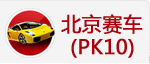
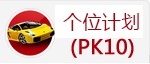
Signed-off-by: Mr.xiaojiu Win <274276153@qq.com>

Changed region(s): [[0.4, 0.1875, 0.96, 0.5312]]

diff --git a/App/Modules/Home/Tpl/Lottery/index.html b/App/Modules/Home/Tpl/Lottery/index.html
@@ -60,6 +60,7 @@
             <!--<td><a href=""><img src="/Public/source/hnguo/plan/h3zx.png" width="167" height="64" alt="后三直选"></a></td>-->
             <!--<td><a href=""><img src="/Public/source/hnguo/plan/h2z6.png" alt="后三组六" width="167" height="64" border="0"></a></td>-->
             <td><a href="/index.php?id=2"><img src="/Public/source/hnguo/plan/pk10.png" alt="北京赛车pk10" width="150" height="64" border="0"></a></td>
+            <td><a href="/index.php?id=8"><img src="/Public/source/hnguo/plan/pk10_qwdwd.png" alt="北京赛车pk10" width="150" height="64" border="0"></a></td>
             <td><a href="/index.php?id=3"><img src="/Public/source/hnguo/plan/ffcqq.png" alt="腾讯分分彩" width="150" height="64" border="0"></a></td>
             <td><a href="/index.php?id=5"><img src="/Public/source/hnguo/plan/ffcqq_wxdwd.png" alt="腾讯分分彩-五星定位胆" width="150" height="64" border="0"></a></td>
             <td><a href="/index.php?id=7"><img src="/Public/source/hnguo/plan/ffcqq_last_two.png" alt="腾讯分分彩-后二复式" width="150" height="64" border="0"></a></td>

diff --git a/App/Modules/Home/Action/LotteryAction.class.php b/App/Modules/Home/Action/LotteryAction.class.php
@@ -153,6 +153,16 @@ class LotteryAction extends SystemAction
             $data[$i] = $a;
             return self::getCodeRet($sign,$data,$term);
         }
+        //北京赛车PK10 前五定位胆
+        if($sign == 'bjpk10_qwdwd'){
+            $data =[];
+            $i = explode(',',$code)[0];
+            $j = explode(',',$code)[1];
+            $a = array_slice(explode(',',$opencode),0,5);
+            $data[$i] = $a;
+            $data[$j] = $a;
+            return self::getCodeRet($sign,$data,$term,true);
+        }
         //腾讯分分彩
         if($sign == 'ffcqq'){
             $data = [];
@@ -191,13 +201,13 @@ class LotteryAction extends SystemAction
     }
 
     //获取返回状态和次数
-    public static function getCodeRet($sign,$data,$term){
-        if(self::isCodeRight($data)){
-            self::updatePlan($sign);
+    public static function getCodeRet($sign,$data,$term,$or = false){
+        if(self::isCodeRight($data,$or)){
+            self::updatePlan($sign,$data);
             $ret = ['code'=>100,'msg'=>'right'];
         }else{
             if(self::getContinuityTerm($sign,$term) == $term){
-                self::updatePlan($sign);
+                self::updatePlan($sign,$data);
                 $ret = ['code'=>101,'msg'=>'wrong enough times'];
             }else {
                 $ret = ['code' => 102, 'msg' => 'wrong'];
@@ -207,11 +217,14 @@ class LotteryAction extends SystemAction
         return $ret;
     }
     //判断预测码是否正确
-    private static function isCodeRight($data){
+    private static function isCodeRight($data,$or=false){
         $ret = true;
         foreach($data as $k=>$v){
             if(!in_array($k,$v)) {
                 $ret = false;
+            }elseif($or){
+                $ret = true;
+                break;
             }
         }
         return $ret;
@@ -236,7 +249,7 @@ class LotteryAction extends SystemAction
     }
 
     //更新计划
-    public static function updatePlan($sign){
+    public static function updatePlan($sign,$input=[]){
         //获取统计数据
         $signRecord = substr($sign,0,strcspn($sign,'_'));
         $recInfo = M('lotteryRecord')->where(['sign'=>$signRecord])->find();
@@ -273,6 +286,96 @@ class LotteryAction extends SystemAction
             $secMax = array_search(max($selArr),$selArr);
             if(in_array($max,$num) || in_array($secMax,$num)){
                 $num = NoRand(1,10,5);
+            }
+            foreach ($num as &$v){
+                if(strlen($v) == 1){
+                    $v = '0'.$v;
+                }
+            }
+            $code = implode(',',$num);
+            $data = [
+                'nums'=>$code
+            ];
+        }
+        //北京赛车PK10 前五定位
+        if($sign == 'bjpk10_qwdwd'){
+            $num = NoRand(1,10,2);
+            asort($num);
+            if(!empty($input)){
+                foreach ($input as $v){
+                    $p = $v[0]+$v[4];
+                    break;
+                }
+                switch ($p){
+                    case 3:
+                        $num[0] = 4;
+                        $num[1] = 8;
+                        break;
+                    case 4:
+                        $num[0] = 6;
+                        $num[1] = 4;
+                        break;
+                    case 5:
+                        $num[0] = 8;
+                        $num[1] = 10;
+                        break;
+                    case 6:
+                        $num[0] = 9;
+                        $num[1] = 7;
+                        break;
+                    case 7:
+                        $num[0] = 1;
+                        $num[1] = 3;
+                        break;
+                    case 8:
+                        $num[0] = 1;
+                        $num[1] = 2;
+                        break;
+                    case 9:
+                        $num[0] = 1;
+                        $num[1] = 4;
+                        break;
+                    case 10:
+                        $num[0] = 1;
+                        $num[1] = 6;
+                        break;
+                    case 11:
+                        $num[0] = 1;
+                        $num[1] = 7;
+                        break;
+                    case 12:
+                        $num[0] = 1;
+                        $num[1] = 9;
+                        break;
+                    case 13:
+                        $num[0] = 2;
+                        $num[1] = 1;
+                        break;
+                    case 14:
+                        $num[0] = 2;
+                        $num[1] = 6;
+                        break;
+                    case 15:
+                        $num[0] = 2;
+                        $num[1] = 4;
+                        break;
+                    case 16:
+                        $num[0] = 2;
+                        $num[1] = 5;
+                        break;
+                    case 17:
+                        $num[0] = 2;
+                        $num[1] = 7;
+                        break;
+                    case 18:
+                        $num[0] = 2;
+                        $num[1] = 9;
+                        break;
+                    case 19:
+                        $num[0] = 3;
+                        $num[1] = 10;
+                        break;
+                }
             }
             foreach ($num as &$v){
                 if(strlen($v) == 1){
